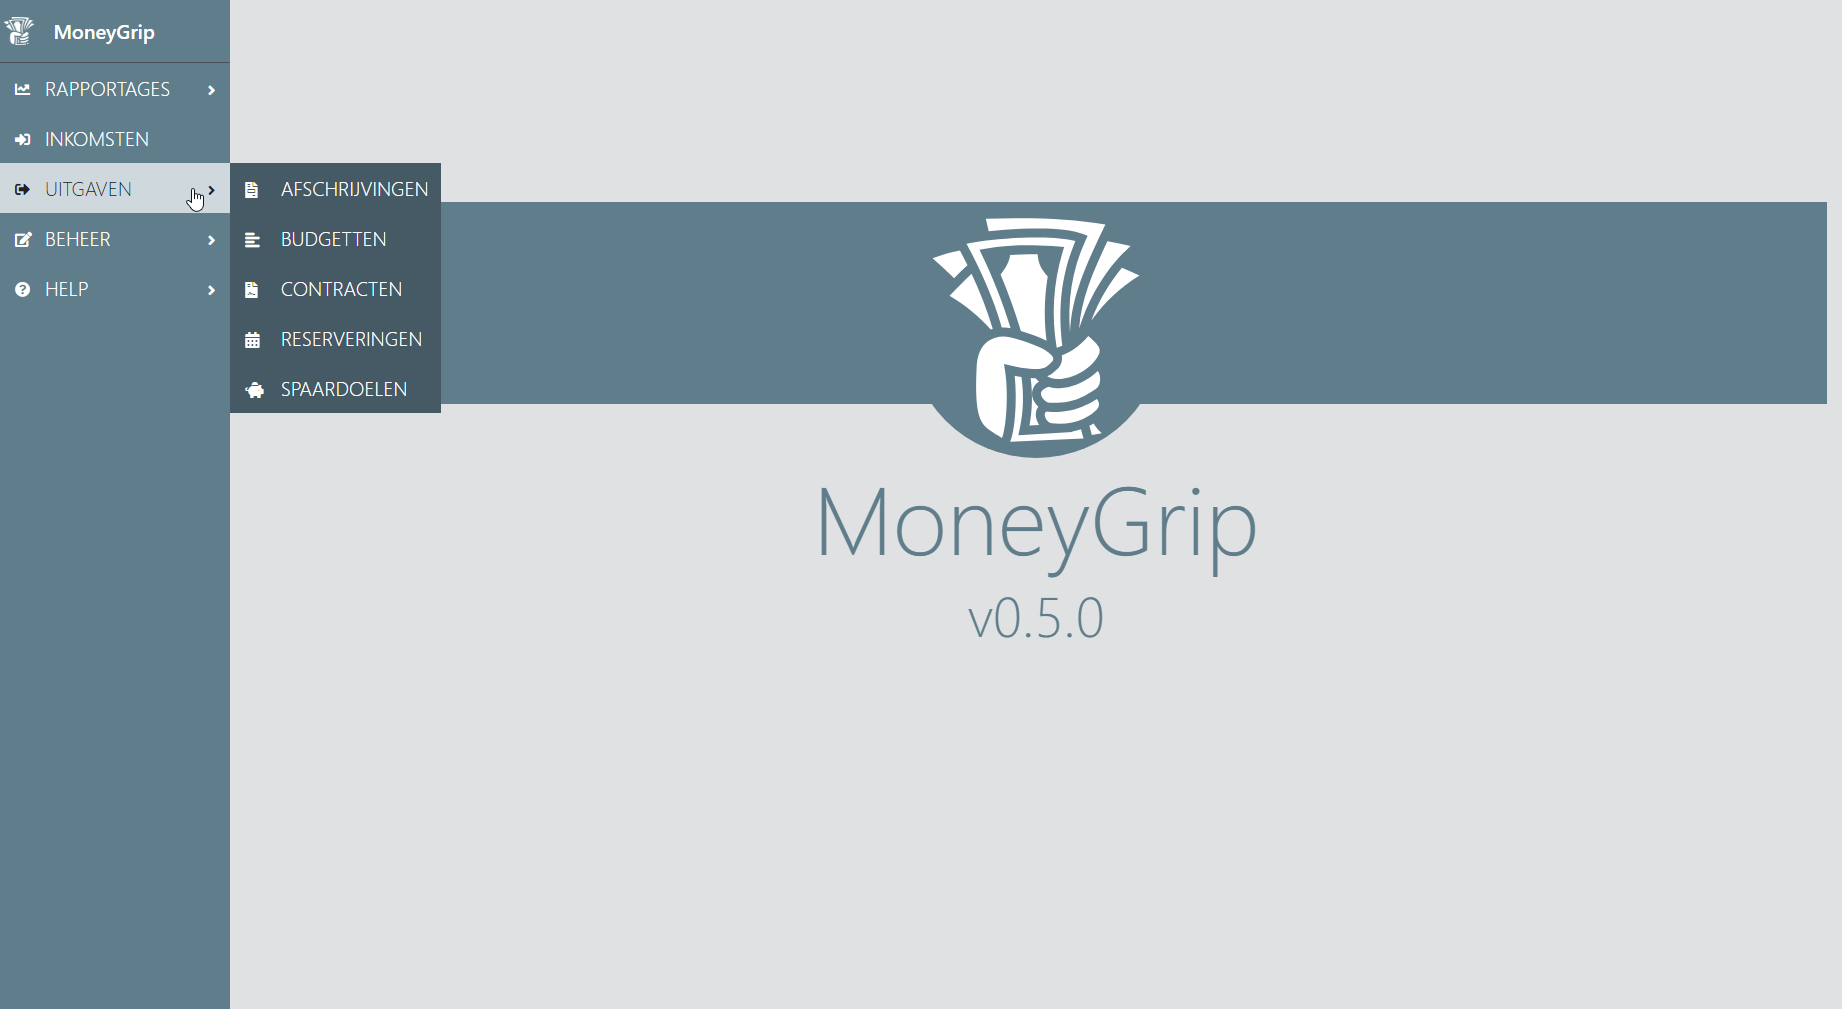
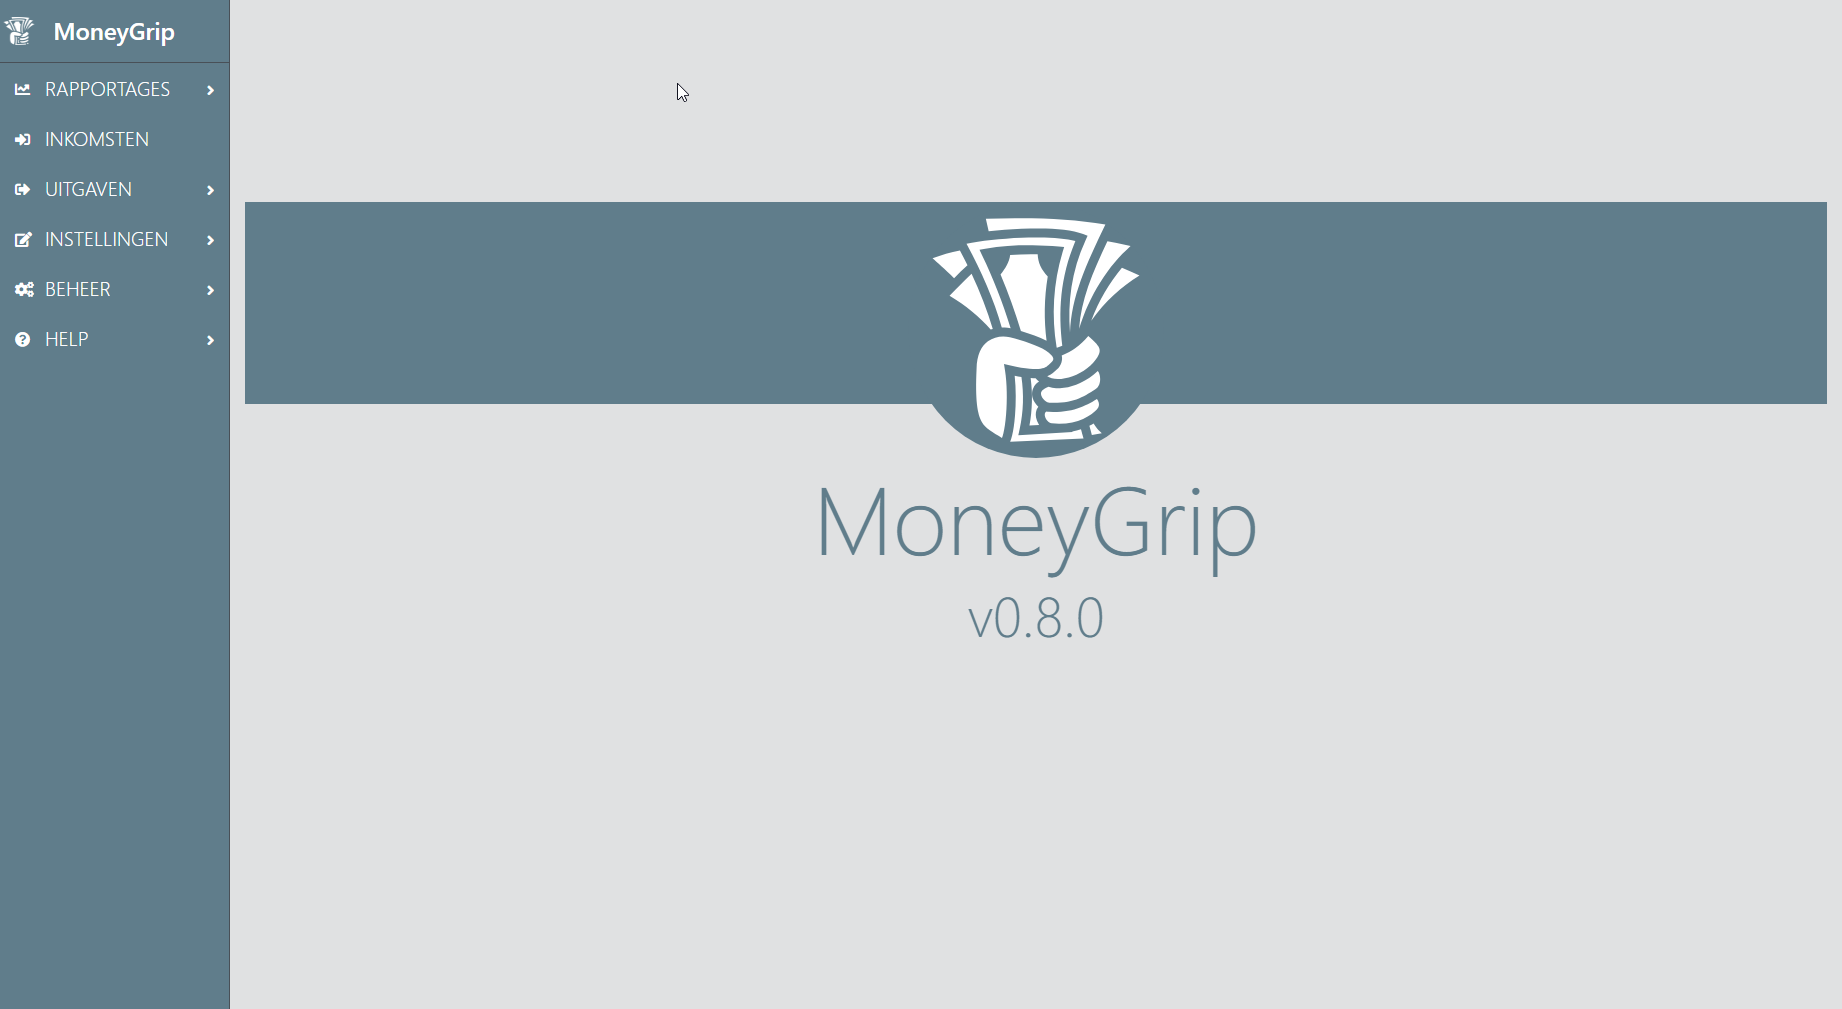
Release 0.8.0 aanpassingen

diff --git a/docs/conf.py b/docs/conf.py
@@ -24,9 +24,9 @@ copyright = '2019, Wesley Jonker'
 author = 'Wesley Jonker'
 
 # The short X.Y version
-version = '0.7.0'
+version = '0.8.0'
 # The full version, including alpha/beta/rc tags
-release = '0.7.0'
+release = '0.8.0'
 
 
 # -- General configuration ---------------------------------------------------

diff --git a/README.md b/README.md
@@ -15,18 +15,18 @@
 
 # Release notes
 ![version](https://img.shields.io/github/tag/wesmaster/moneygrip.svg?colorB=607D8B&label=version&style=flat)
-- Backup van database maken en herstellen vanuit interface
-- Dialogen hebben nu een vaste breedte
-- Eerste opzet betere Angular structuur
-- Kwaliteitscontrole opgezet
+- Er kan nu gefilterd worden op de labels pagina
+- Invul dialogen hebben een nieuwe styling gekregen
+- Persoonpagina heeft de nieuwe Angular structuur
+- De opslaanknop op invuldialogen is nu uitgeschakeld zolang er nog niks is gewijzigd
 
 # Roadmap
-Volgende versie (15/02/2019)
+Hoogtepunten volgende versie
 
 [![Waffle.io - Columns and their card count](https://badge.waffle.io/WesMaster/MoneyGrip.svg?columns=To%20Do,In%20Progress,Done)](https://waffle.io/WesMaster/MoneyGrip) 
-- Labels kunnen filteren
-- Styling invul dialogen verbeteren
-- Nieuwe Angular structuur uitbreiden
+- Filteren op categorie pagina
+- Labelspagina omzetten naar nieuwe Angular structuur
+- Scss gebruiken ipv css
 
 # MoneyGrip
 ![Screen](https://raw.github.com/wesmaster/moneygrip/develop/Screen.png)

diff --git a/docs/installatie/moneygrip.rst b/docs/installatie/moneygrip.rst
@@ -6,8 +6,10 @@ MoneyGrip
 * Volg de stappen in het scherm
 
 Deel I van de installatie is nu voltooid. Er staat nu een icoon van MoneyGrip op het bureaublad. Hiermee wordt deel II van de installatie en de applicatie gestart.
-Het tweede deel van de installatie gaat volledig automatisch. MoneyGrip moet nog het één en ander downloaden en opstarten en kan wel even duren.
+Het tweede deel van de installatie gaat volledig automatisch. MoneyGrip moet nog het één en ander downloaden en opstarten, dit kan wel even duren.
 Zodra dit is voltooid wordt MoneyGrip automatisch opgestart.
+
+Het is mogelijk dat wanneer MoneyGrip opgestart wordt er een pagina verschijnt waarop aangegeven wordt dat de pagina niet gevonden kan worden. Dit betekent dat MoneyGrip op de achtergrond nog niet alles heeft opgestart. Zodra dit wel het geval is zal de pagina vanzelf ververst worden en zal MoneyGrip beschikbaar zijn.
 
 Updates
 -------

diff --git a/docs/installatie/docker_desktop.rst b/docs/installatie/docker_desktop.rst
@@ -34,3 +34,5 @@ In de taakbalk naast de datum/tijd weergave zal nu het icoon van Docker Desktop 
 Nadat er op de optie "Switch to Windows containers" is geklikt zal onderstaand scherm verschijnen. Klik hier op "Switch".
 
 |scr4| 
+
+De installatie van Docker Desktop is nu voltooid.
